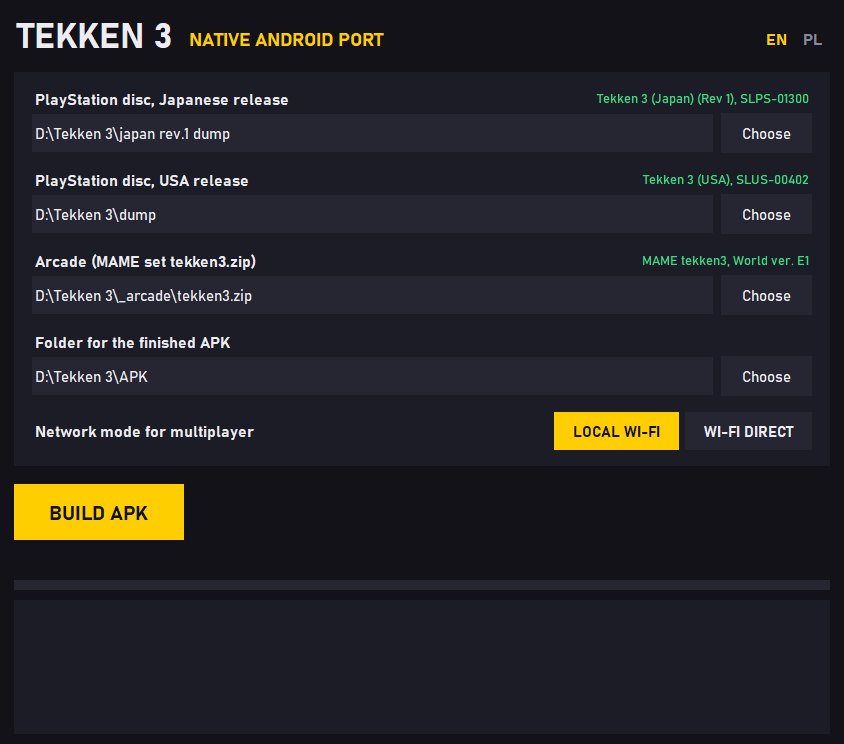
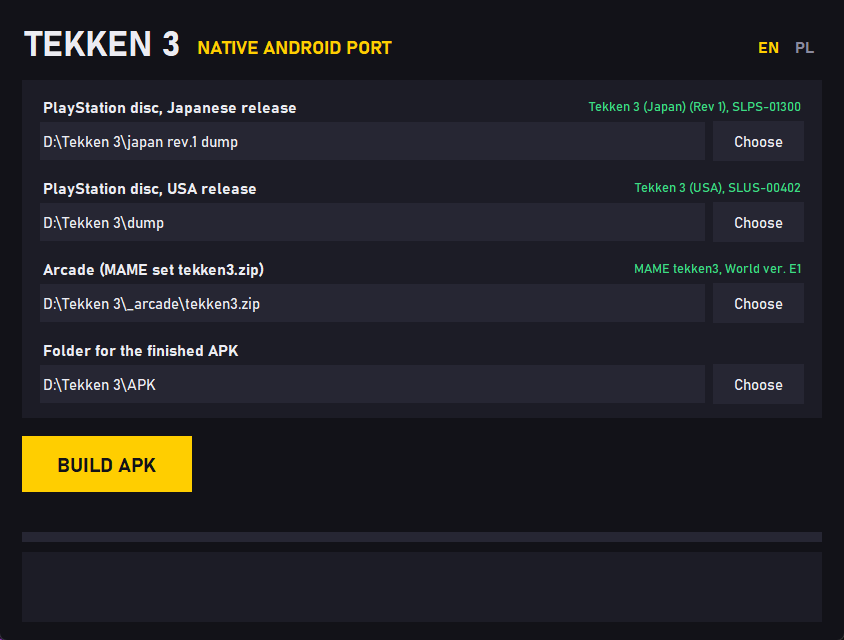
README: the builder's screenshot without the network switch, and its text to match

diff --git a/README.md b/README.md
@@ -18,9 +18,9 @@ No game data is included. Assets come from your own disc through the remake's co
 `Tekken3Builder.exe` (in the releases) makes the APK from your own discs: one file, nothing to
 install, no game data inside. Choose the Japanese PlayStation disc (Tekken 3 (Japan) (Rev 1) or
 (Japan), SLPS-01300), optionally the USA disc (SLUS-00402, English texts) and MAME's arcade set
-`tekken3` (World ver. E1), the network mode for multiplayer (the local Wi-Fi, or Wi-Fi Direct
-with no router), and click BUILD APK. The window checks every choice and names the release it
-found. The first build makes a signing key next to the .exe; later builds reuse it, so a new APK
+`tekken3` (World ver. E1), and click BUILD APK. The window checks every choice and names the
+release it found. NETWORK MODE in the APK finds games through the router and over Wi-Fi Direct
+(no router) at once. The first build makes a signing key next to the .exe; later builds reuse it, so a new APK
 installs over the old one. Sources: `builder/`, `tools/make_builder.py`; see `builder/README.txt`.
 
 ### Layout
